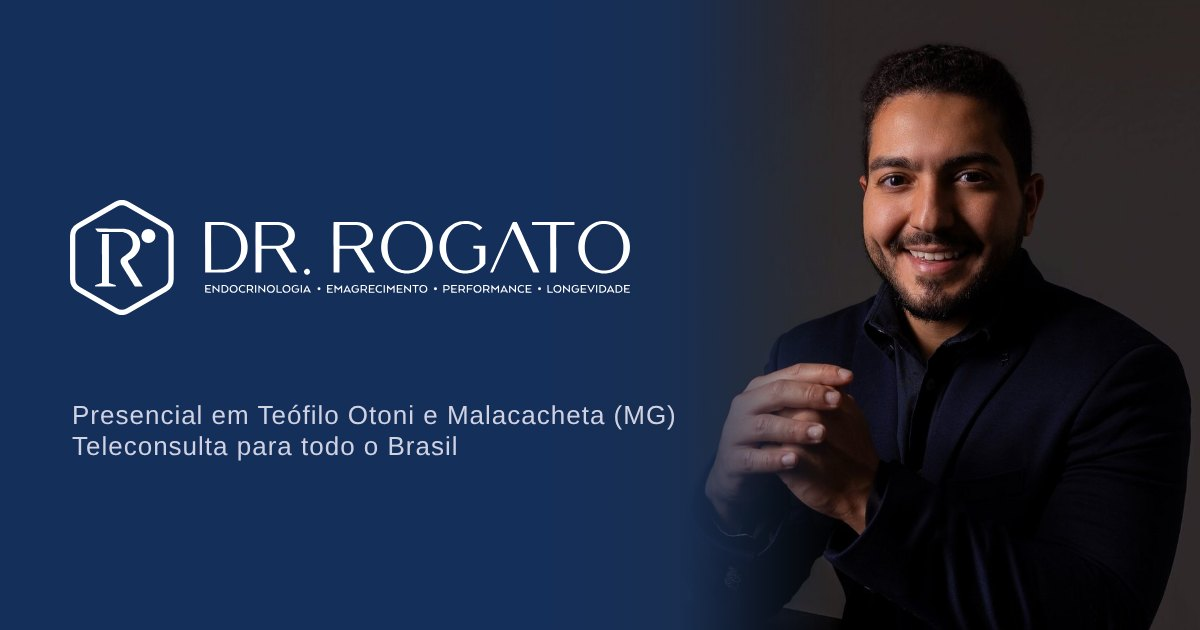
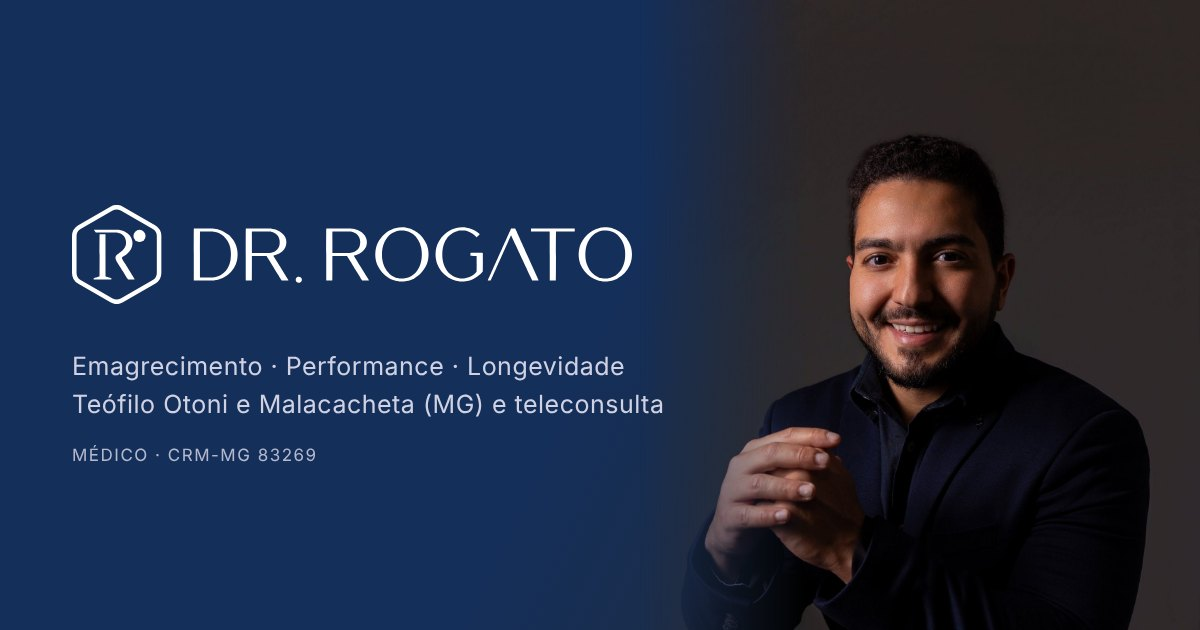
Ajustes de ética médica (CFM 2.336/2023)
- Pós-graduação sempre seguida de NÃO ESPECIALISTA (art. 13)
- Remove página Endocrinologia geral e listas de doenças (art. 11, I)
- Logo sem tagline e nova imagem de compartilhamento
- Suaviza frases que insinuavam resultado (art. 11, XII)
- Checagem de termos bloqueia Endocrinologia sem o aviso

Claude-Session: https://claude.ai/code/session_01MmaWShNRQ6tcsStUr859bK

diff --git a/src/pages/Home.tsx b/src/pages/Home.tsx
@@ -8,14 +8,13 @@ import { Hexagono, FotoHexagono } from '../components/Hexagono'
 import { CtaFinal, Faq, TituloSecao } from '../components/Secoes'
 import {
   IconeBalanca, IconeBrasil, IconeCheck, IconeComposicao, IconeCoracao, IconeExame, IconeInstagram, IconeLocal,
-  IconeMolecula, IconePlano, IconeRaio, IconeSeta, IconeEstetoscopio, IconeVideo, IconeRelogio,
+  IconePlano, IconeRaio, IconeSeta, IconeEstetoscopio, IconeVideo, IconeRelogio,
 } from '../components/Icones'
 
 export const ICONE_AREA: Record<AreaSlug, typeof IconeBalanca> = {
   emagrecimento: IconeBalanca,
   performance: IconeRaio,
   longevidade: IconeCoracao,
-  endocrinologia: IconeMolecula,
 }
 
 const BLOCOS: Record<AreaSlug, { texto: string; bullets: string[] }> = {
@@ -25,34 +24,25 @@ const BLOCOS: Record<AreaSlug, { texto: string; bullets: string[] }> = {
       'Investigação das causas do ganho de peso',
       'Plano alimentar e de atividade física realista, em conjunto com a sua rotina',
       'Uso de medicamentos quando indicado, com segurança e acompanhamento',
-      'Foco em manter os resultados a longo prazo',
+      'Acompanhamento para manter o peso a longo prazo',
     ],
   },
   performance: {
     texto: 'Para quem treina, trabalha muito ou quer mais disposição, o objetivo é melhorar a composição corporal e a energia com base em exames, avaliação clínica e ajustes individualizados.',
     bullets: [
       'Avaliação de composição corporal por bioimpedância',
-      'Ganho de massa magra e redução de gordura com estratégia',
+      'Orientação sobre massa magra e gordura corporal, com base em exames',
       'Investigação de cansaço, sono e recuperação',
       'Acompanhamento com metas claras e mensuráveis',
     ],
   },
   longevidade: {
-    texto: 'Longevidade é viver mais e melhor. O cuidado preventivo do metabolismo reduz riscos e preserva músculo, energia e autonomia ao longo dos anos.',
+    texto: 'Longevidade com qualidade depende de prevenção. Cuidar do metabolismo ajuda a controlar fatores de risco e a preservar músculo, energia e autonomia ao longo dos anos.',
     bullets: [
       'Avaliação de risco cardiovascular e metabólico',
       'Prevenção de diabetes, gordura no fígado e perda de massa muscular',
       'Exames direcionados, sem excessos',
       'Hábitos e tratamentos com base em evidências científicas',
-    ],
-  },
-  endocrinologia: {
-    texto: 'Avaliação e acompanhamento das alterações hormonais mais comuns, com atenção aos sintomas, aos exames e ao impacto de cada uma no seu dia a dia.',
-    bullets: [
-      'Tireoide: hipotireoidismo, hipertireoidismo e nódulos',
-      'Diabetes, pré-diabetes e resistência à insulina',
-      'Colesterol e triglicerídeos alterados',
-      'Distúrbios hormonais e investigação de sintomas',
     ],
   },
 }
@@ -116,7 +106,7 @@ export default function Home() {
       <section className="secao bg-white">
         <div className="container-site">
           <TituloSecao rotulo="Áreas de atuação" titulo="Como posso te ajudar?" texto="Cada pessoa chega com um objetivo diferente. Escolha o tema que mais combina com o seu momento." centro />
-          <div className="mt-12 grid gap-5 sm:grid-cols-2 lg:grid-cols-4">
+          <div className="mt-12 grid gap-5 sm:grid-cols-2 lg:grid-cols-3">
             {AREAS.map((a) => {
               const Icone = ICONE_AREA[a.slug]
               return (
@@ -258,10 +248,10 @@ export default function Home() {
             <p className="rotulo">Sobre o Dr. Rogato</p>
             <h2 className="titulo-secao mt-3">Visão clínica completa, cuidado próximo</h2>
             <p className="mt-5 leading-relaxed text-grafite/80">
-              Sou médico formado pela UNIFAGOC e pós-graduado em Endocrinologia pelo IPEMED. Há anos atuo em terapia intensiva e na gestão do Hospital Bom Samaritano de Teófilo Otoni, onde sou diretor clínico. Essa vivência me ensinou a olhar o paciente por inteiro.
+              Sou médico formado pela UNIFAGOC e pós-graduado em Endocrinologia pelo IPEMED (NÃO ESPECIALISTA). Há anos atuo em terapia intensiva e na gestão do Hospital Bom Samaritano de Teófilo Otoni, onde sou diretor clínico. Essa vivência me ensinou a olhar o paciente por inteiro.
             </p>
             <p className="mt-4 leading-relaxed text-grafite/80">
-              No consultório, uno essa experiência ao cuidado do metabolismo: medicina baseada em evidências, individualizada, com foco em resultados que se sustentam no dia a dia.
+              No consultório, uno essa experiência ao cuidado do metabolismo: medicina baseada em evidências, individualizada, com foco em mudanças que se sustentam no dia a dia.
             </p>
             <p className="mt-5 text-sm font-medium text-marinho">{MEDICO.nome} · {MEDICO.crm} · {MEDICO.titulo}</p>
             <div className="mt-8 flex flex-col gap-3 sm:flex-row sm:items-center">

diff --git a/index.html b/index.html
@@ -3,8 +3,8 @@
   <head>
     <meta charset="UTF-8" />
     <meta name="viewport" content="width=device-width, initial-scale=1.0, viewport-fit=cover" />
-    <title>Dr. Rogato | Emagrecimento, Endocrinologia e Longevidade em Teófilo Otoni – MG</title>
-    <meta name="description" content="Dr. Rogato, médico pós-graduado em Endocrinologia pelo IPEMED. Emagrecimento, performance e longevidade. Consultas presenciais em Teófilo Otoni e Malacacheta (MG) e teleconsulta para todo o Brasil." />
+    <title>Dr. Rogato | Emagrecimento, Performance e Longevidade em Teófilo Otoni – MG</title>
+    <meta name="description" content="Dr. Rogato, médico pós-graduado em Endocrinologia pelo IPEMED, NÃO ESPECIALISTA. Emagrecimento, performance e longevidade. Consultas presenciais em Teófilo Otoni e Malacacheta (MG) e teleconsulta para todo o Brasil." />
     <link rel="canonical" href="https://drrogato.com.br/" />
     <meta name="theme-color" content="#142F5A" />
     <link rel="icon" href="/favicon.svg" type="image/svg+xml" />
@@ -14,16 +14,16 @@
     <meta property="og:type" content="website" />
     <meta property="og:locale" content="pt_BR" />
     <meta property="og:site_name" content="Dr. Rogato" />
-    <meta property="og:title" content="Dr. Rogato | Emagrecimento, Endocrinologia e Longevidade em Teófilo Otoni – MG" />
-    <meta property="og:description" content="Dr. Rogato, médico pós-graduado em Endocrinologia pelo IPEMED. Emagrecimento, performance e longevidade. Consultas presenciais em Teófilo Otoni e Malacacheta (MG) e teleconsulta para todo o Brasil." />
+    <meta property="og:title" content="Dr. Rogato | Emagrecimento, Performance e Longevidade em Teófilo Otoni – MG" />
+    <meta property="og:description" content="Dr. Rogato, médico pós-graduado em Endocrinologia pelo IPEMED, NÃO ESPECIALISTA. Emagrecimento, performance e longevidade. Consultas presenciais em Teófilo Otoni e Malacacheta (MG) e teleconsulta para todo o Brasil." />
     <meta property="og:url" content="https://drrogato.com.br/" />
     <meta property="og:image" content="https://drrogato.com.br/og-image.jpg" />
     <meta property="og:image:width" content="1200" />
     <meta property="og:image:height" content="630" />
     <meta property="og:image:alt" content="Dr. Rogato, médico, ao lado da logomarca DR. ROGATO" />
     <meta name="twitter:card" content="summary_large_image" />
-    <meta name="twitter:title" content="Dr. Rogato | Emagrecimento, Endocrinologia e Longevidade em Teófilo Otoni – MG" />
-    <meta name="twitter:description" content="Dr. Rogato, médico pós-graduado em Endocrinologia pelo IPEMED. Emagrecimento, performance e longevidade. Consultas presenciais em Teófilo Otoni e Malacacheta (MG) e teleconsulta para todo o Brasil." />
+    <meta name="twitter:title" content="Dr. Rogato | Emagrecimento, Performance e Longevidade em Teófilo Otoni – MG" />
+    <meta name="twitter:description" content="Dr. Rogato, médico pós-graduado em Endocrinologia pelo IPEMED, NÃO ESPECIALISTA. Emagrecimento, performance e longevidade. Consultas presenciais em Teófilo Otoni e Malacacheta (MG) e teleconsulta para todo o Brasil." />
     <meta name="twitter:image" content="https://drrogato.com.br/og-image.jpg" />
     <link rel="preconnect" href="https://fonts.googleapis.com" />
     <link rel="preconnect" href="https://fonts.gstatic.com" crossorigin />

diff --git a/src/pages/conteudoTratamentos.ts b/src/pages/conteudoTratamentos.ts
@@ -114,35 +114,4 @@ export const CONTEUDO_AREAS: Record<AreaSlug, ConteudoArea> = {
       ['Quais exames vou precisar fazer?', 'Depende do seu histórico e da avaliação clínica. Os exames são escolhidos para responder a perguntas concretas sobre a sua saúde.'],
     ]),
   },
-  endocrinologia: {
-    chamada: 'Tireoide, diabetes e hormônios com avaliação cuidadosa',
-    introducao:
-      'Os hormônios regulam metabolismo, energia, peso, humor e muitas outras funções. Alterações hormonais podem ser silenciosas no início, por isso a avaliação clínica atenta e os exames bem indicados são importantes para o diagnóstico e o acompanhamento.',
-    paraQuem: [
-      'Quem tem ou suspeita de alterações na tireoide, como hipotireoidismo, hipertireoidismo ou nódulos',
-      'Pessoas com diabetes tipo 2, pré-diabetes ou resistência à insulina',
-      'Quem tem exames hormonais alterados e precisa de orientação',
-      'Mulheres com síndrome dos ovários policísticos ou irregularidade menstrual',
-    ],
-    sinais: [
-      'Cansaço persistente, sonolência ou intolerância ao frio ou ao calor',
-      'Alterações de peso sem causa aparente',
-      'Sede excessiva, aumento da urina ou glicose alta nos exames',
-      'Queda de cabelo, pele seca, palpitações ou alterações do humor',
-      'Ciclos menstruais irregulares, acne ou aumento de pelos',
-    ],
-    abordagem: [
-      { titulo: 'Escuta e exame clínico', texto: 'Sintomas, histórico pessoal e familiar, medicamentos em uso e exame físico direcionado.' },
-      { titulo: 'Investigação', texto: 'Exames laboratoriais e de imagem quando indicados, com explicação clara de cada resultado.' },
-      { titulo: 'Tratamento', texto: 'Conduta baseada nas diretrizes atuais, com metas definidas e orientação sobre o uso correto dos medicamentos.' },
-      { titulo: 'Seguimento', texto: 'Retornos programados para monitorar a resposta, ajustar doses e prevenir complicações.' },
-    ],
-    observacao: AVISO,
-    faq: faq('endocrinologia', [
-      ['Hipotireoidismo engorda?', 'Pode contribuir para um pequeno ganho de peso, mas raramente explica sozinho um aumento importante. Por isso a avaliação considera outros fatores além da tireoide.'],
-      ['Pré-diabetes tem volta?', 'Em muitos casos, mudanças de hábitos e acompanhamento adequado ajudam a normalizar a glicose e reduzir o risco de evolução para diabetes. A resposta varia de pessoa para pessoa.'],
-      ['Preciso levar exames antigos?', 'Sim, se tiver. Exames anteriores ajudam a entender a evolução e podem evitar repetições desnecessárias.'],
-      ['Diabetes pode ser acompanhado por teleconsulta?', 'Sim. Exames, glicemias registradas e a lista de medicamentos podem ser avaliados por vídeo, com prescrição digital válida em todo o Brasil.'],
-    ]),
-  },
 }

diff --git a/src/pages/Sobre.tsx b/src/pages/Sobre.tsx
@@ -12,7 +12,7 @@ type ItemLinha = { periodo: string; titulo: string; lugar: string; tipo: 'formac
 const LINHA_DO_TEMPO: ItemLinha[] = [
   { periodo: 'Desde 07/2026', titulo: 'Médico plantonista da UTI', lugar: 'Hospital Regional de Teófilo Otoni', tipo: 'experiencia' },
   { periodo: 'Desde 05/2024', titulo: 'Diretor Clínico', lugar: 'Hospital Bom Samaritano de Teófilo Otoni', tipo: 'experiencia' },
-  { periodo: '2023 a 2025', titulo: 'Pós-graduação em Endocrinologia', lugar: 'IPEMED, Belo Horizonte/MG', tipo: 'formacao' },
+  { periodo: '2023 a 2025', titulo: 'Pós-graduação em Endocrinologia (NÃO ESPECIALISTA)', lugar: 'IPEMED, Belo Horizonte/MG', tipo: 'formacao' },
   { periodo: 'Desde 06/2022', titulo: 'Coordenador da Clínica Médica', lugar: 'Hospital Bom Samaritano de Teófilo Otoni', tipo: 'experiencia' },
   { periodo: 'Desde 03/2022', titulo: 'Médico plantonista da UTI', lugar: 'Hospital Bom Samaritano de Teófilo Otoni', tipo: 'experiencia' },
   { periodo: '2014 a 2020', titulo: 'Graduação em Medicina', lugar: 'UNIFAGOC, Ubá/MG', tipo: 'formacao' },
@@ -81,8 +81,8 @@ export default function Sobre() {
                 atento à segurança.
               </p>
               <p>
-                Com a pós-graduação em Endocrinologia pelo IPEMED, direcionou o consultório para o metabolismo e a saúde hormonal, com atuação em
-                emagrecimento, performance, longevidade e endocrinologia geral. Atende presencialmente em Teófilo Otoni e Malacacheta, no Vale do
+                Com a pós-graduação em Endocrinologia pelo IPEMED (NÃO ESPECIALISTA), direcionou o consultório para o cuidado do metabolismo, com atendimento em
+                emagrecimento, performance e longevidade. Atende presencialmente em Teófilo Otoni e Malacacheta, no Vale do
                 Mucuri, e por teleconsulta para todo o Brasil.
               </p>
             </div>
@@ -106,7 +106,7 @@ export default function Sobre() {
           <TituloSecao
             rotulo="Trajetória"
             titulo={<span id="trajetoria-titulo">Formação e experiência</span>}
-            texto="Medicina intensiva, gestão hospitalar e endocrinologia: uma trajetória que une a visão do todo ao cuidado do metabolismo."
+            texto="Medicina intensiva, gestão hospitalar e metabolismo: uma trajetória que une a visão do todo ao cuidado do metabolismo."
           />
           <ol className="relative mt-12 md:mx-auto md:max-w-4xl">
             <span className="absolute bottom-6 left-[23px] top-6 w-px bg-marinho-200 md:left-1/2 md:-translate-x-1/2" aria-hidden="true" />

diff --git a/src/lib/constantes.ts b/src/lib/constantes.ts
@@ -4,9 +4,9 @@ export const MEDICO = {
   nome: 'Dr. Rogato Abrantes de Quadros Filho',
   nomeCurto: 'Dr. Rogato',
   crm: 'CRM-MG 83269',
-  titulo: 'Médico pós-graduado em Endocrinologia pelo IPEMED',
-  tituloCurto: 'Pós-graduado em Endocrinologia (IPEMED)',
-  atuacao: 'Endocrinologia, Emagrecimento, Performance e Longevidade',
+  titulo: 'Médico pós-graduado em Endocrinologia pelo IPEMED, NÃO ESPECIALISTA',
+  tituloCurto: 'Pós-graduado em Endocrinologia (IPEMED), NÃO ESPECIALISTA',
+  atuacao: 'Emagrecimento, Performance e Longevidade',
 }
 
 export const DIAS = ['Domingo', 'Segunda', 'Terça', 'Quarta', 'Quinta', 'Sexta', 'Sábado']
@@ -15,14 +15,14 @@ export const DIAS_CURTOS = ['Dom', 'Seg', 'Ter', 'Qua', 'Qui', 'Sex', 'Sáb']
 export const AREAS = [
   {
     slug: 'emagrecimento',
-    titulo: 'Emagrecimento e obesidade',
+    titulo: 'Emagrecimento e controle de peso',
     resumo: 'Perda de peso com estratégia, segurança e acompanhamento, respeitando sua rotina e sua história.',
     icone: 'balanca',
   },
   {
     slug: 'performance',
     titulo: 'Performance e composição corporal',
-    resumo: 'Mais massa magra, menos gordura e energia para treinar, trabalhar e viver bem.',
+    resumo: 'Avaliação da composição corporal, da energia e do que pode estar limitando seu desempenho.',
     icone: 'raio',
   },
   {
@@ -30,12 +30,6 @@ export const AREAS = [
     titulo: 'Longevidade e saúde metabólica',
     resumo: 'Prevenção e cuidado do metabolismo para envelhecer com saúde, disposição e autonomia.',
     icone: 'coracao',
-  },
-  {
-    slug: 'endocrinologia',
-    titulo: 'Endocrinologia geral',
-    resumo: 'Tireoide, diabetes, resistência à insulina e distúrbios hormonais, com avaliação completa.',
-    icone: 'molecula',
   },
 ] as const
 

diff --git a/src/components/Footer.tsx b/src/components/Footer.tsx
@@ -19,7 +19,7 @@ export function Footer() {
         <div className="grid gap-10 md:grid-cols-2 lg:grid-cols-[1fr_1.2fr_1.2fr_1.2fr]">
           <div className="md:col-span-2 lg:col-span-4 lg:flex lg:items-end lg:justify-between lg:gap-10 lg:border-b lg:border-white/10 lg:pb-10">
             <div>
-              <Logo versao="horizontal" cor="branco" className="h-auto w-[360px] max-w-full" alt="Dr. Rogato: Endocrinologia, Emagrecimento, Performance, Longevidade" />
+              <Logo versao="horizontal-sem-tagline" cor="branco" className="h-auto w-[300px] max-w-full" alt="Dr. Rogato" />
               <p className="mt-5 max-w-sm text-sm leading-relaxed text-lilas-200">
                 Cuidado médico completo para o seu metabolismo, com ciência, escuta e um plano feito para a sua vida.
               </p>
@@ -97,7 +97,7 @@ export function Footer() {
             </li>
           </ul>
           <p className="mt-4">
-            © {ano} {MEDICO.nome} · Médico · {MEDICO.crm} · Pós-graduado em Endocrinologia (IPEMED). Todos os direitos reservados.
+            © {ano} {MEDICO.nome} · Médico · {MEDICO.crm} · {MEDICO.tituloCurto}. Todos os direitos reservados.
           </p>
         </div>
       </div>

diff --git a/src/pages/Tratamentos.tsx b/src/pages/Tratamentos.tsx
@@ -17,8 +17,8 @@ export default function Tratamentos() {
     <>
       <CabecalhoPagina
         rotulo="Tratamentos"
-        titulo="Cuidado do metabolismo em quatro frentes"
-        texto="Emagrecimento, performance, longevidade e endocrinologia geral: áreas que se conversam e são avaliadas em conjunto, sempre a partir da sua história."
+        titulo="Cuidado do metabolismo em três frentes"
+        texto="Emagrecimento, performance e longevidade: áreas que se conversam e são avaliadas em conjunto, sempre a partir da sua história."
       />
 
       <section className="secao" aria-labelledby="areas-titulo">
@@ -26,7 +26,7 @@ export default function Tratamentos() {
           <h2 id="areas-titulo" className="sr-only">
             Áreas de atuação
           </h2>
-          <ul className="grid gap-6 md:grid-cols-2">
+          <ul className="grid gap-6 md:grid-cols-2 lg:grid-cols-3">
             {AREAS.map((a) => {
               const Icone = ICONES_AREA[a.icone]
               const c = CONTEUDO_AREAS[a.slug]

diff --git a/src/pages/Telemedicina.tsx b/src/pages/Telemedicina.tsx
@@ -50,7 +50,7 @@ const NAO_INDICADO = [
 const QUANDO = [
   'Ganho de peso ou dificuldade para emagrecer',
   'Cansaço e falta de energia sem explicação',
-  'Suspeita de alterações hormonais ou da tireoide',
+  'Dúvidas sobre exames de rotina',
   'Revisão de exames recentes',
   'Ajuste de medicação',
   'Segunda opinião',
@@ -89,7 +89,7 @@ export default function Telemedicina() {
             Teleconsulta: atendimento de onde você estiver
           </h1>
           <p className="mt-6 max-w-2xl text-lg leading-relaxed text-lilas-200">
-            Consulta por videochamada para emagrecimento, performance, longevidade e endocrinologia, com o mesmo cuidado do consultório e
+            Consulta por videochamada para emagrecimento, performance e longevidade, com o mesmo cuidado do consultório e
             documentos digitais válidos em todo o país.
           </p>
 

diff --git a/src/components/Globais.tsx b/src/components/Globais.tsx
@@ -12,7 +12,6 @@ const MSG_POR_PAGINA: [RegExp, string][] = [
   [/^\/tratamentos\/emagrecimento/, 'Olá! Vim pelo site, pela página de emagrecimento, e gostaria de agendar uma consulta.'],
   [/^\/tratamentos\/performance/, 'Olá! Vim pelo site, pela página de performance e composição corporal, e gostaria de agendar uma consulta.'],
   [/^\/tratamentos\/longevidade/, 'Olá! Vim pelo site, pela página de longevidade, e gostaria de agendar uma consulta.'],
-  [/^\/tratamentos\/endocrinologia/, 'Olá! Vim pelo site, pela página de endocrinologia, e gostaria de agendar uma consulta.'],
   [/^\/sobre/, 'Olá! Vim pelo site e gostaria de agendar uma consulta com o Dr. Rogato.'],
 ]
 

diff --git a/src/lib/schema.ts b/src/lib/schema.ts
@@ -38,7 +38,7 @@ export function gerarSchema(d: Pick<SiteData, 'locais' | 'redes'>, siteUrl: stri
         '@id': `${siteUrl}/#medico`,
         name: 'Dr. Rogato Abrantes de Quadros Filho',
         alternateName: 'Dr. Rogato',
-        description: 'Médico pós-graduado em Endocrinologia pelo IPEMED, com atuação em endocrinologia, emagrecimento, performance e longevidade. CRM-MG 83269.',
+        description: 'Médico pós-graduado em Endocrinologia pelo IPEMED, NÃO ESPECIALISTA. Atendimento em emagrecimento, performance e longevidade. CRM-MG 83269.',
         url: siteUrl,
         image: `${siteUrl}/foto/dr-rogato-hero.jpg`,
         telephone: tel,

diff --git a/src/lib/seed.ts b/src/lib/seed.ts
@@ -77,7 +77,7 @@ export const DADOS_PADRAO: SiteData = {
   conteudo: {
     hero_titulo: 'Seu metabolismo, sua energia e sua longevidade merecem um cuidado completo',
     hero_subtitulo:
-      'Sou o Dr. Rogato, médico pós-graduado em Endocrinologia pelo IPEMED. Cuido de emagrecimento, performance, longevidade e saúde hormonal com avaliação detalhada e um plano feito para a sua rotina.',
+      'Sou o Dr. Rogato e cuido de emagrecimento, performance, longevidade e saúde metabólica com avaliação detalhada e um plano feito para a sua rotina.',
     instagram_posts: [],
     ga4_id: '',
     gtm_id: '',

diff --git a/src/components/Header.tsx b/src/components/Header.tsx
@@ -51,7 +51,7 @@ export function Header() {
             <>
               {/* Com tagline só quando há largura (≥ 360px de logo) e o header não está compacto */}
               <Logo versao="horizontal-sem-tagline" cor="azul" className={`h-7 w-auto ${rolou ? '' : 'xl:hidden'}`} />
-              {!rolou && <Logo versao="horizontal" cor="azul" className="hidden h-12 w-auto xl:block" />}
+              {!rolou && <Logo versao="horizontal-sem-tagline" cor="azul" className="hidden h-9 w-auto xl:block" />}
             </>
           )}
         </Link>
